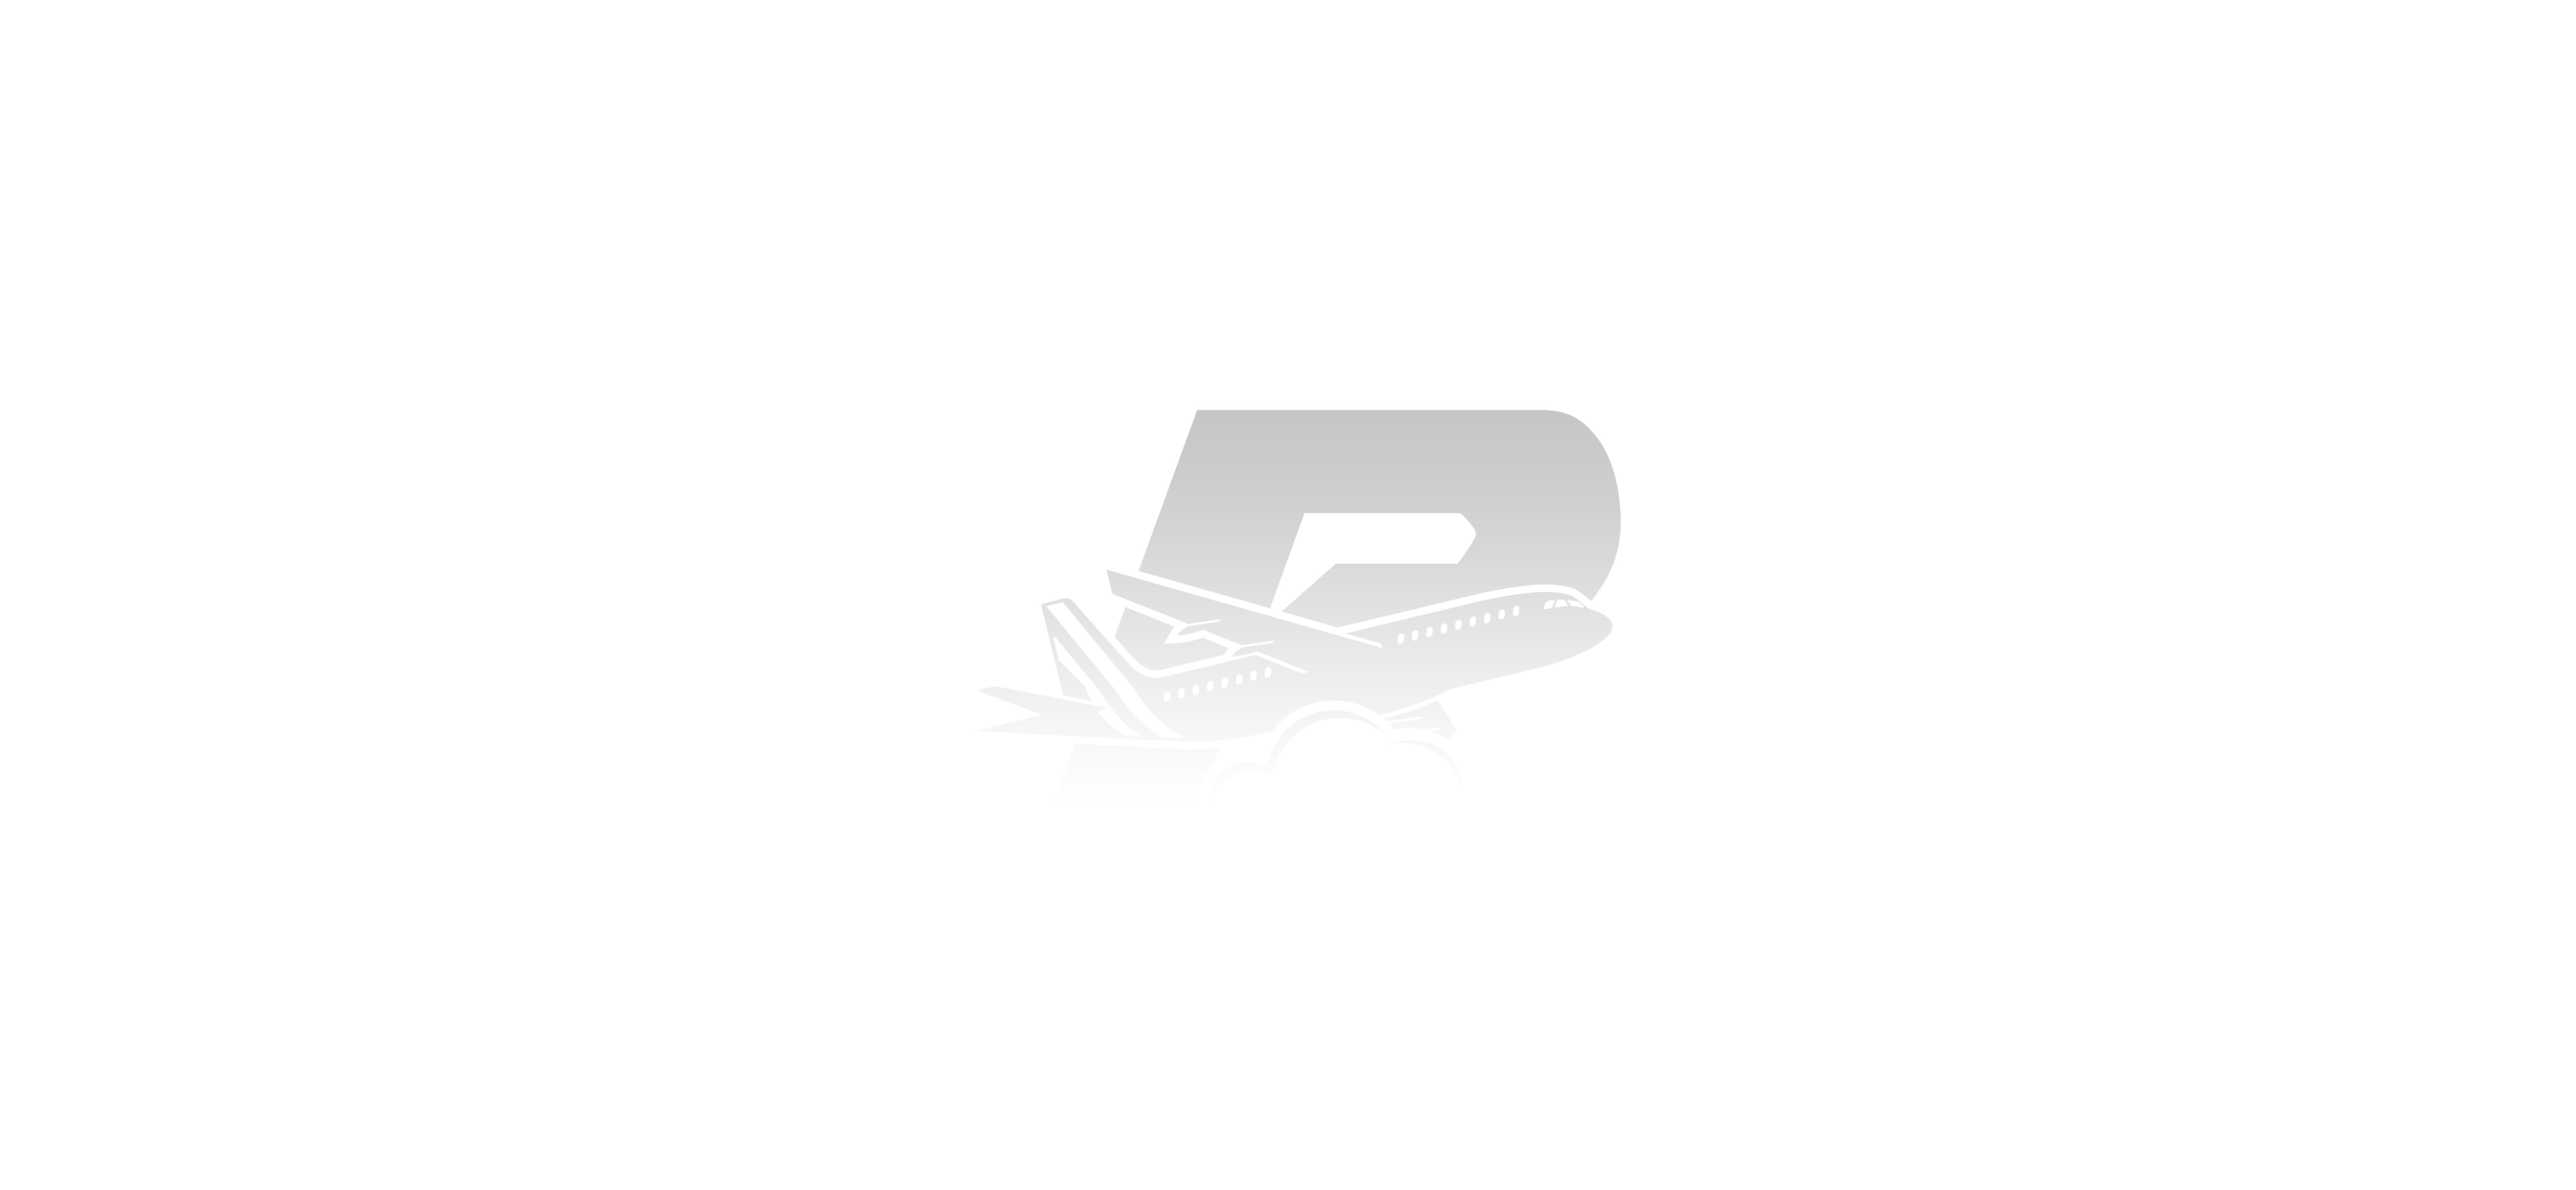
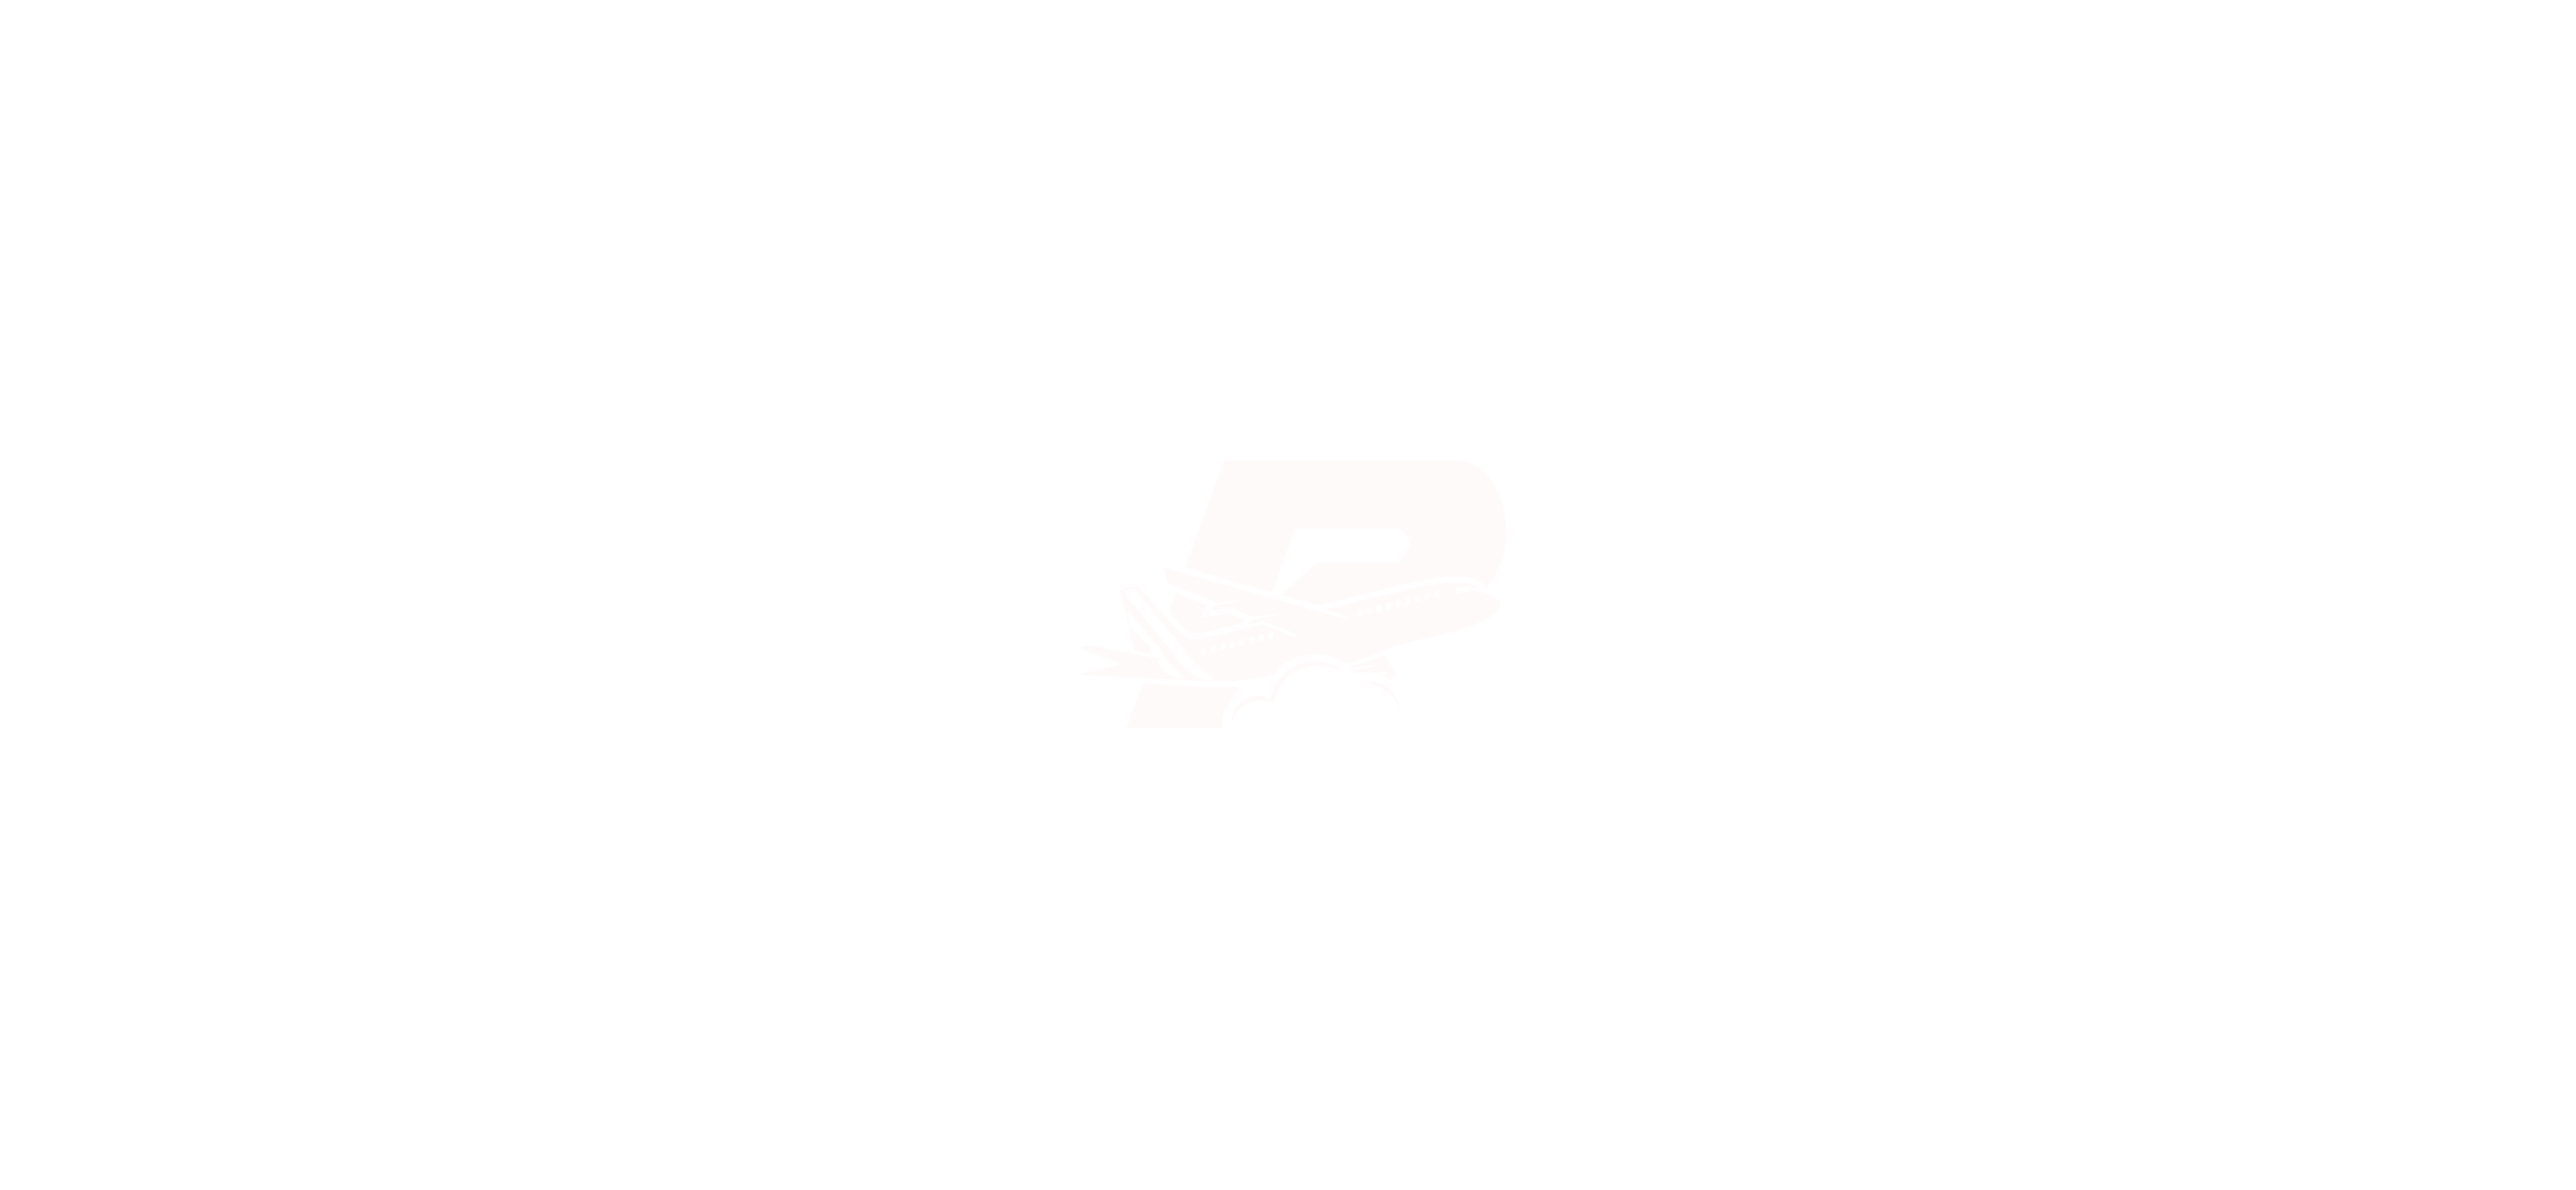
working on hero

Changed region(s): [[0.4024, 0.3427, 0.6501, 0.5607]]

diff --git a/client/src/App.js b/client/src/App.js
@@ -1,6 +1,7 @@
 import { useState, useEffect } from 'react';
 import React from 'react';
 import Navbar from './Components/Navbar';
+import Hero from './Components/Hero';
 
 function App() {
   const [users, setUsers] = useState([]); 
@@ -22,6 +23,7 @@ useEffect(() => {
   return (
     <React.Fragment>
       <Navbar/>
+      <Hero/>
     </React.Fragment>
   );
 }

diff --git a/client/src/Components/Hero.js b/client/src/Components/Hero.js
@@ -1,0 +1,15 @@
+import React from 'react'
+import ReactDOM from 'react-dom';
+import './Hero.css'
+import mbasja from "../img/mbasja.png";
+
+function Hero() {
+    return (
+      <div className='navbar'>
+        <img src={mbasja} alt="bg" id='mbasja'/>
+    </div>
+    )
+  }
+
+
+export default Hero;

diff --git a/client/src/Components/Navbar.css b/client/src/Components/Navbar.css
@@ -13,7 +13,7 @@
     align-items: center;
 }
 .logo{
-    width: 23em;
+    width: 28em;
 }
 #user-logo{
     color: snow;

diff --git a/client/src/Components/Navbar.js b/client/src/Components/Navbar.js
@@ -19,4 +19,4 @@ function Navbar() {
   )
 }
 
-export default Navbar
+export default Navbar;

diff --git a/client/src/Components/Hero.css b/client/src/Components/Hero.css
@@ -1,0 +1,4 @@
+#mbasja {
+    position: absolute;
+    top: 70px;
+}
